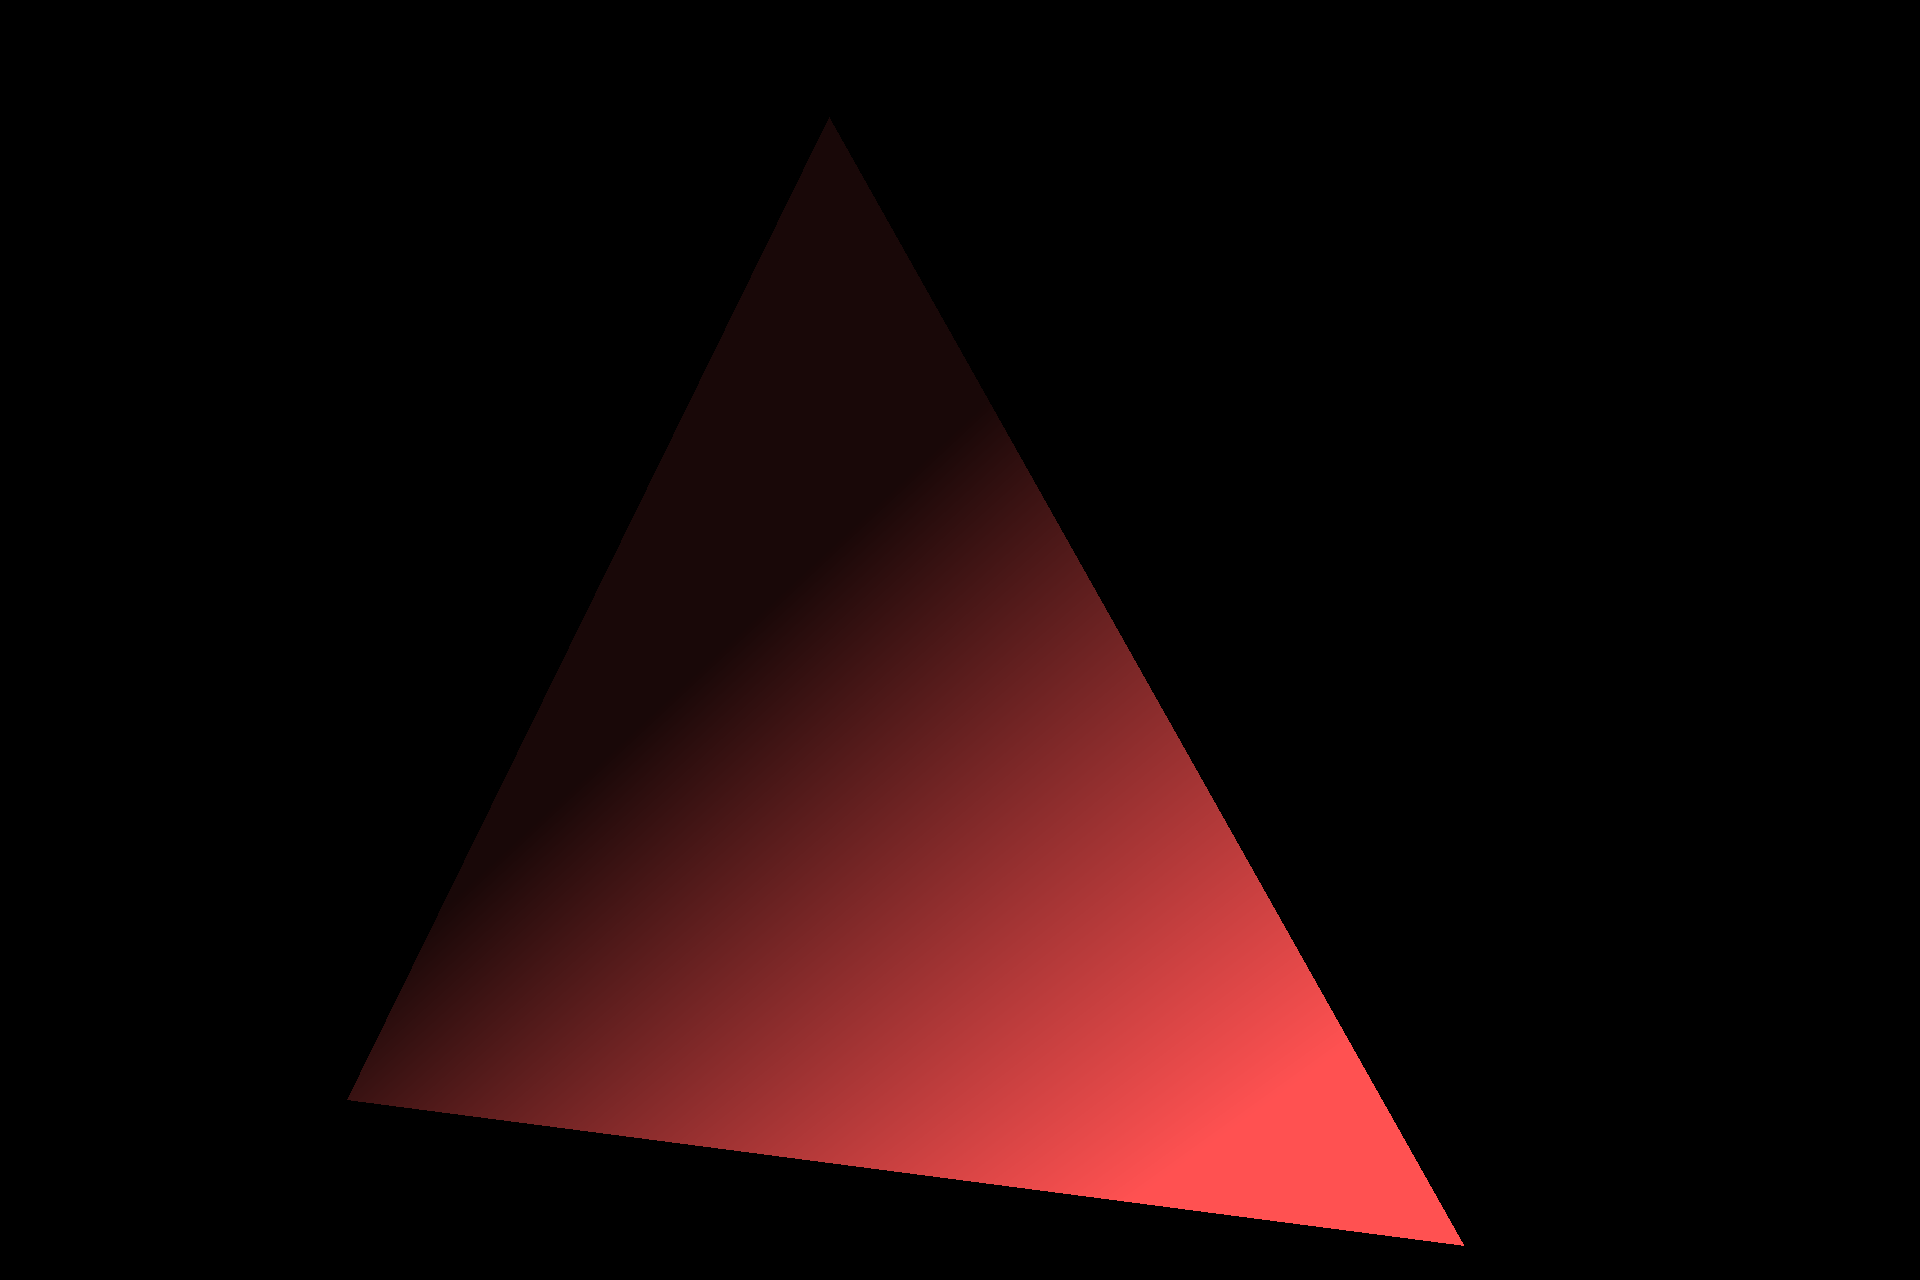
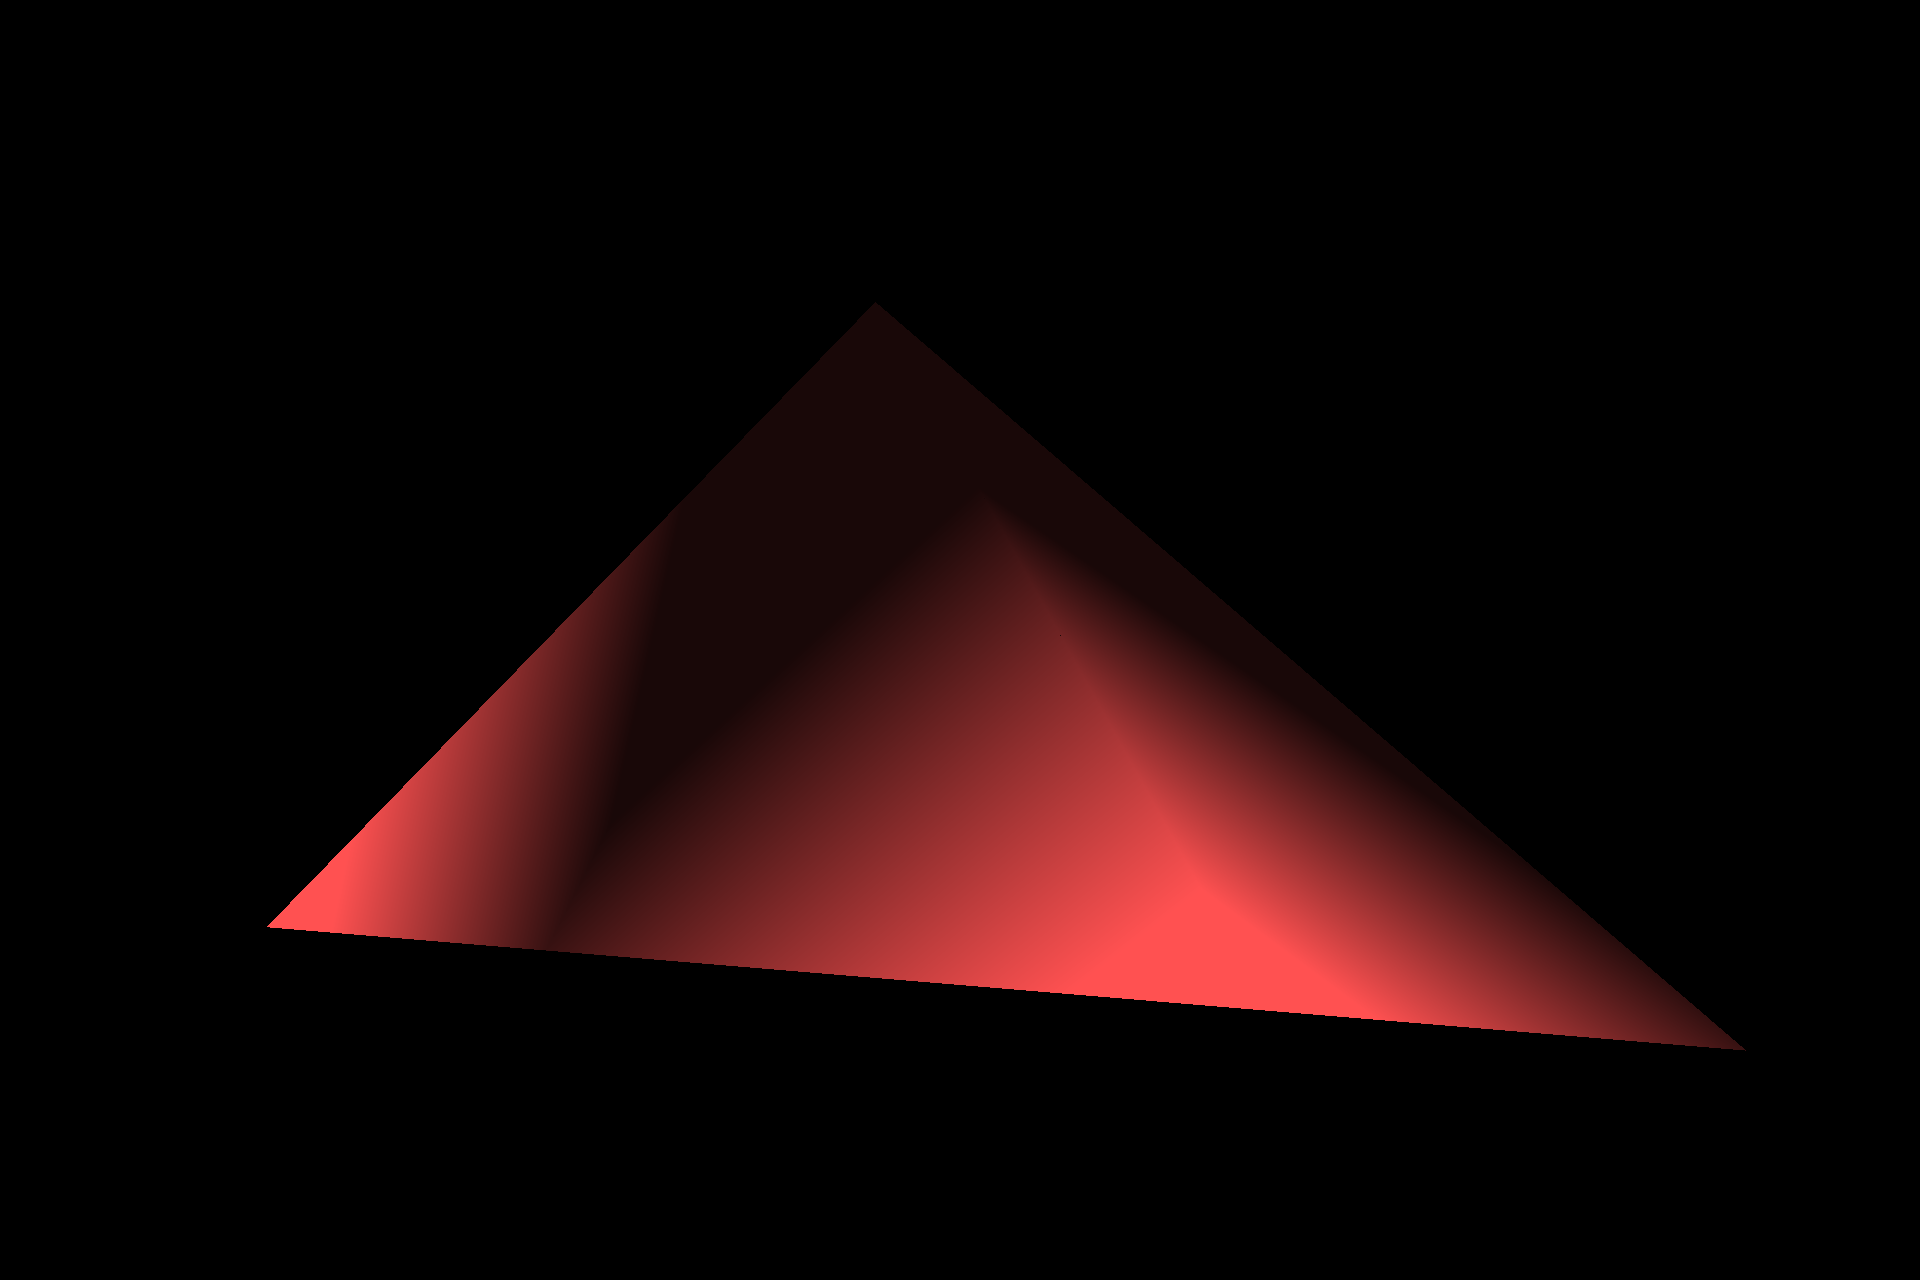
Change example of interpolation

Changed region(s): [[0.125, 0.0938, 0.9062, 0.9688], [0.5, 0.2812, 0.5312, 0.3438]]

diff --git a/image-converter/main.cpp b/image-converter/main.cpp
@@ -97,13 +97,21 @@ int main(int argc, char* argv[]) {
 		//figures.push_back(sp1);
 		//figures.push_back(new Sphere(Vector3D(0, 0, -50), 3, Vector3D(1, 0.1, 0.1)));
 		Triangle* trig = new Triangle(Vector3D(0, 2, 1), Vector3D(-2.5, -2, 1), Vector3D(2.5, -2, 1), Vector3D(1, 0.32, 0.32));
-		trig->setDotNormals(Vector3D(0,-1 ,1).normalize(), Vector3D(0, 0.5, -1).normalize(), Vector3D(1, 1, -1).normalize());
+		//trig->setDotNormals(Vector3D(0,-1 ,1).normalize(), Vector3D(0, 0.5, -1).normalize(), Vector3D(1, 1, -1).normalize());
 		//trig->surfType = surfaceType::REFLECT_AND_REFRACT;
 		float mat[3][3] = {
 			{ 0.86602540378, 0,-0.5 },
 			{0, 1,0 },
 			{ 0.5, 0, 0.86602540378} };
-		MatrixTRS trs = MatrixTRS(mat,Vector3D(0,0,-10), Vector3D(1, 1,1));
+		MatrixTRS trs = MatrixTRS(mat,Vector3D(0,0,-15), Vector3D(1, 1,1));
+		trig->transform(trs);
+		figures.push_back(trig);
+		trig = new Triangle(Vector3D(0, 2, 1), Vector3D(-2.5, -2, 1), Vector3D(-5, -2, 1), Vector3D(1, 0.32, 0.32));
+		//trig->setDotNormals(Vector3D(0, -1, 1).normalize(), Vector3D(0, 0.5, -1).normalize(), Vector3D(1, 1, -1).normalize());
+		trig->transform(trs);
+		figures.push_back(trig);
+		trig = new Triangle(Vector3D(0, 2, 1), Vector3D(5, -2, 1), Vector3D(2.5, -2, 1), Vector3D(1, 0.32, 0.32));
+		//trig->setDotNormals(Vector3D(0, -1, 1).normalize(), Vector3D(0, 0.5, -1).normalize(), Vector3D(1, 1, -1).normalize());
 		trig->transform(trs);
 		figures.push_back(trig);
 		//figures.push_back(new Triangle(Vector3D(2.5, 0, -10), Vector3D(2.5, 0, -10), Vector3D(2.5, 0, -10), Vector3D(1, 0.1, 0.1)));

diff --git a/README.md b/README.md
@@ -97,5 +97,9 @@ Middle sphere is from material which reflect and refract with ior 2.4(diamond). 
 
 
 Examples of render:
-Example of interpolation. Every dot of this triangle has own normal which has it`s own direction. Directional light.
+Example of interpolation. Every dot of this triangles has own normal which has it`s own direction. Directional light.
 ![example 15](/images/render15.png)
+
+Examples of render:
+Same triangles but without interpolation. Directional light.
+![example 16](/images/render16.png)
